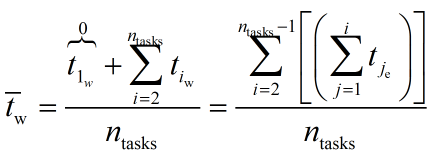
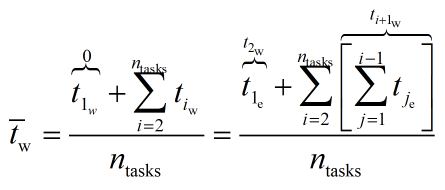
corrections

diff --git a/cs-6200/07-P3L1-scheduling.md b/cs-6200/07-P3L1-scheduling.md
@@ -179,10 +179,11 @@ Reference equations:
 
 * average wait time
 <center>
-<img src="./assets/P03L01-010.png" width="325">
+<img src="./assets/P03L01-010.png" width="350">
 </center>
 
-where `n`<sub>`tasks`</sub> is the number of tasks, `t`<sub>`e`</sub> is an execution time for a task, and `t`<sub>`w`</sub> is a wait time for a task (`i` and `j` are indices denoting tasks).
+where *`n`*<sub>`tasks`</sub> is the number of tasks, *`t`*<sub>`e`</sub> is an execution time for a task, and *`t`*<sub>`w`</sub> is a wait time for a task.
+  * ***N.B.*** *`i`* and *`j`* are indices denoting specific tasks, where both *`i`* and *`j`* are indexed in the ***order*** of the tasks' executions (e.g., *`i`* and *`j`* represent indices `1`, `2`, and `3` for tasks `T1`, `T3`, and `T2` (respectively) in this quiz's example).
 
 ## 6. Preemptive Scheduling: SJF + Preempt
 
